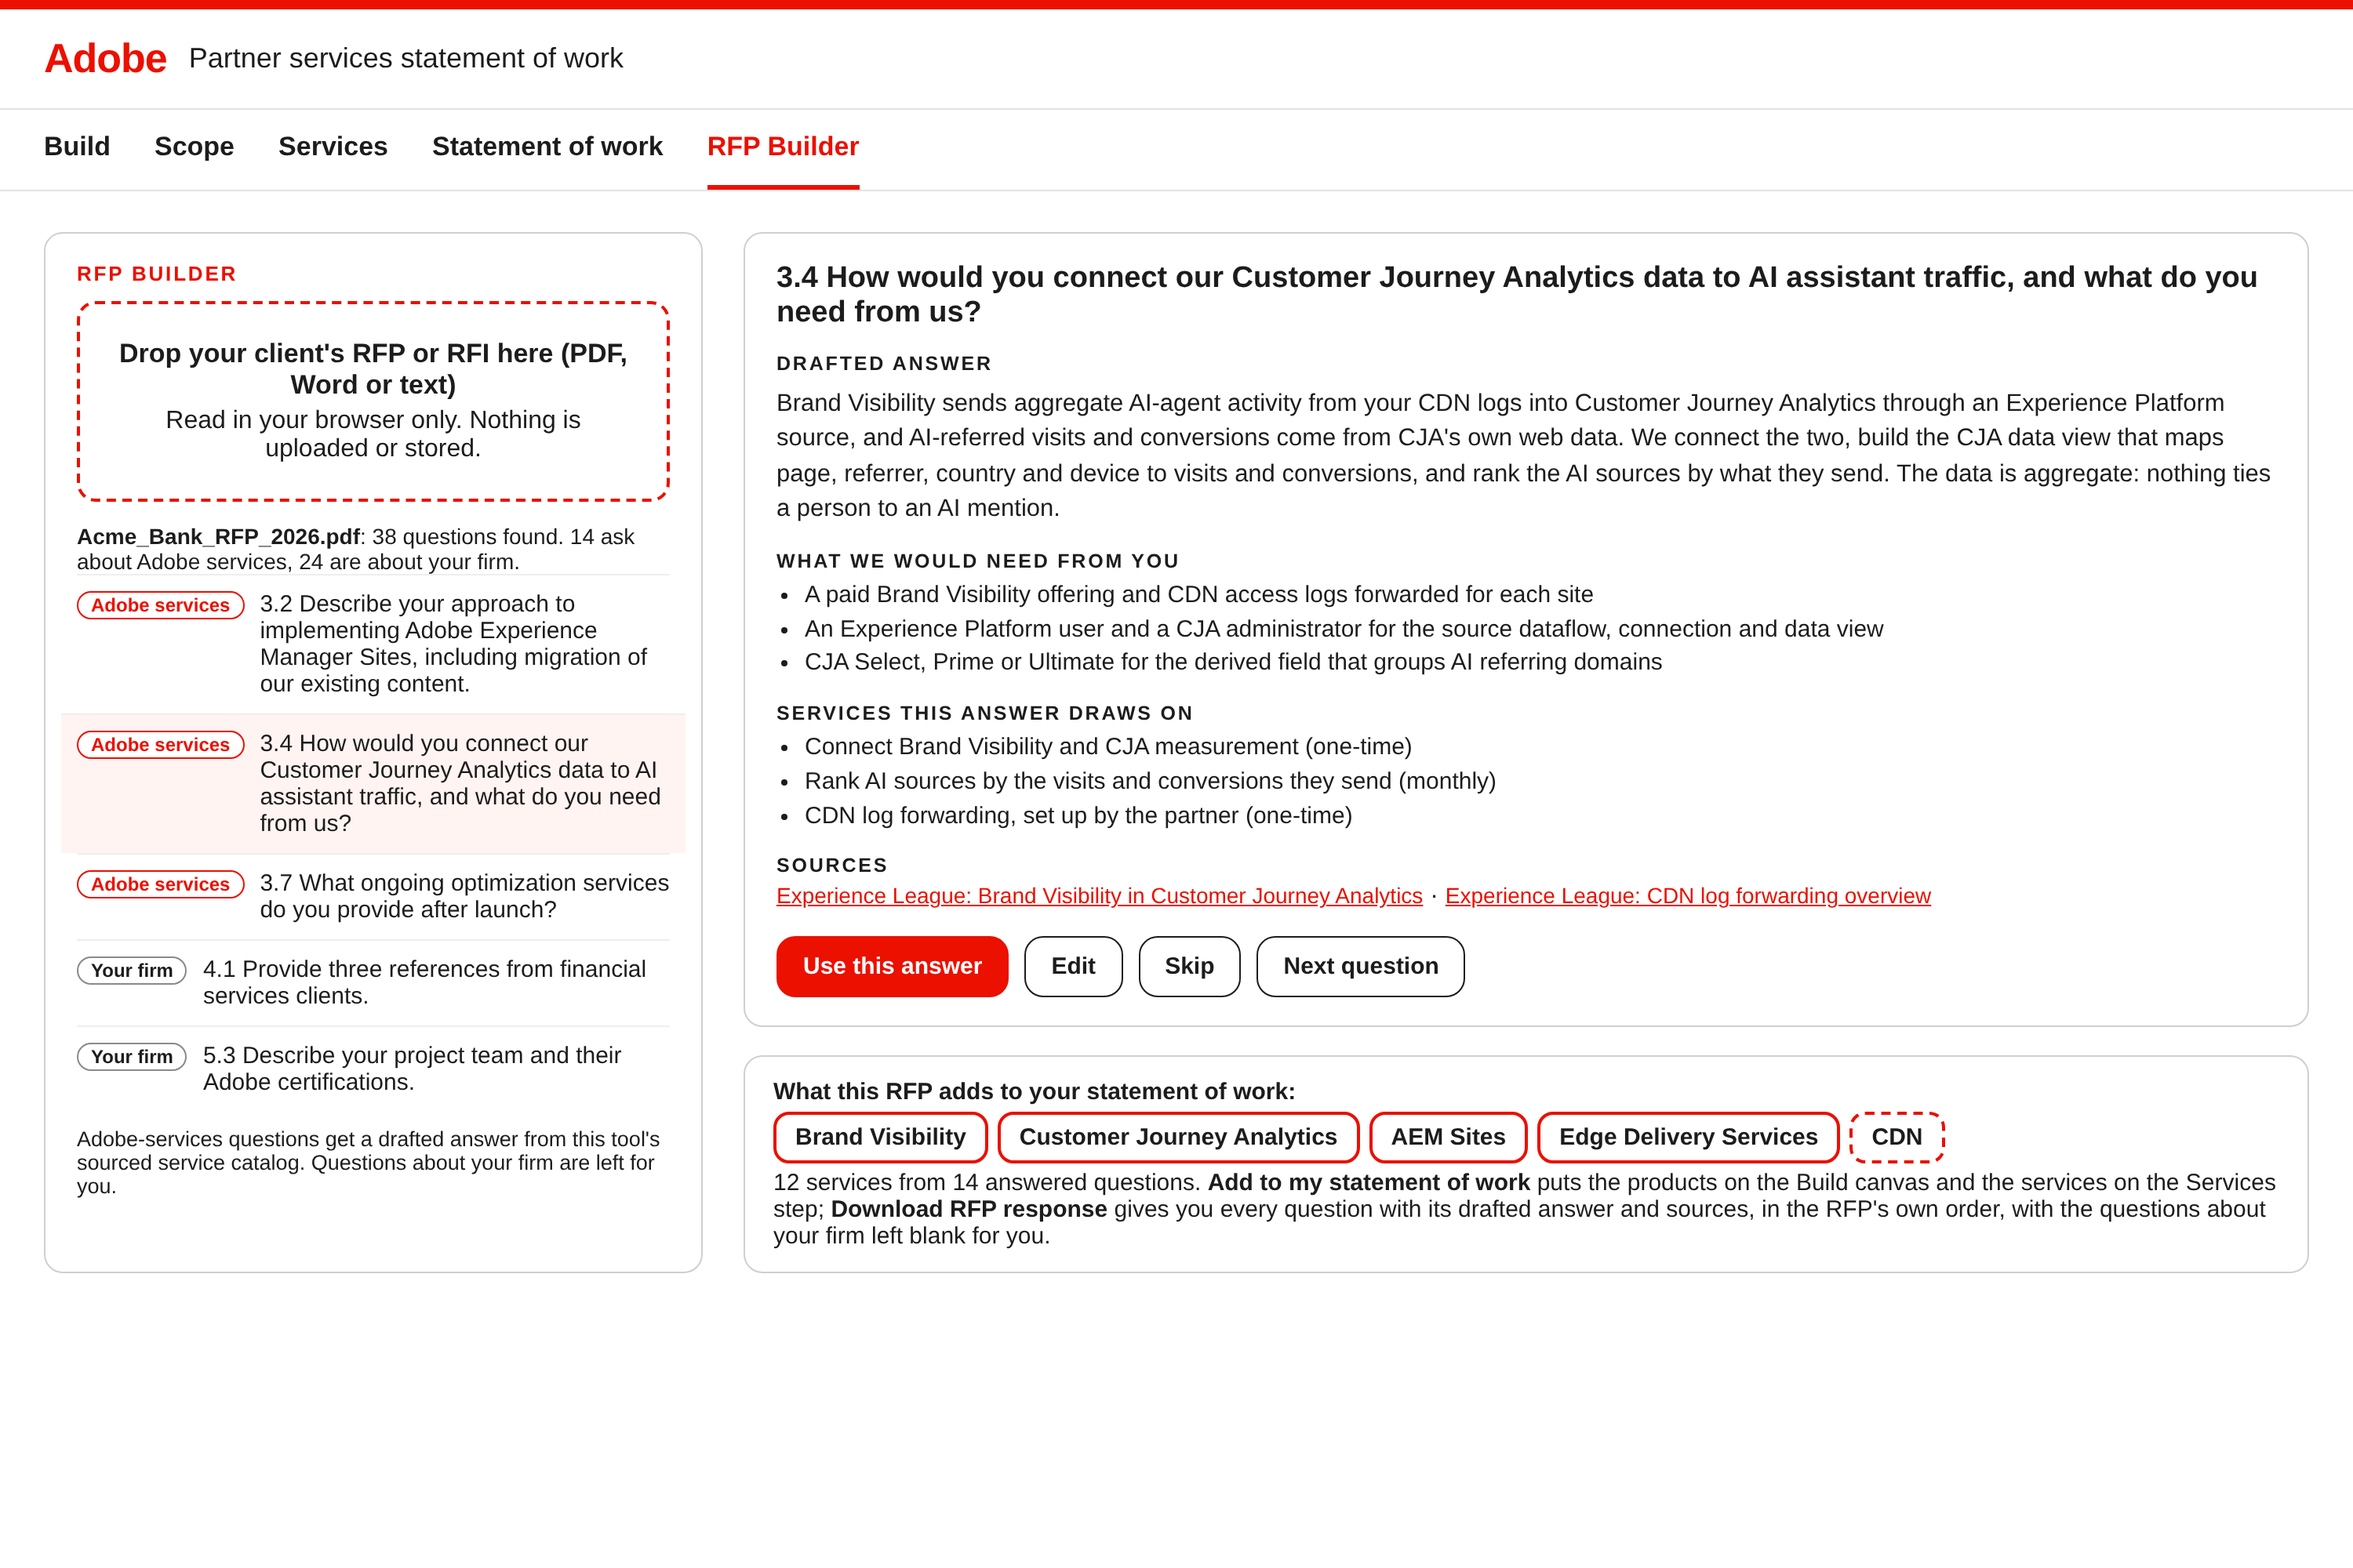
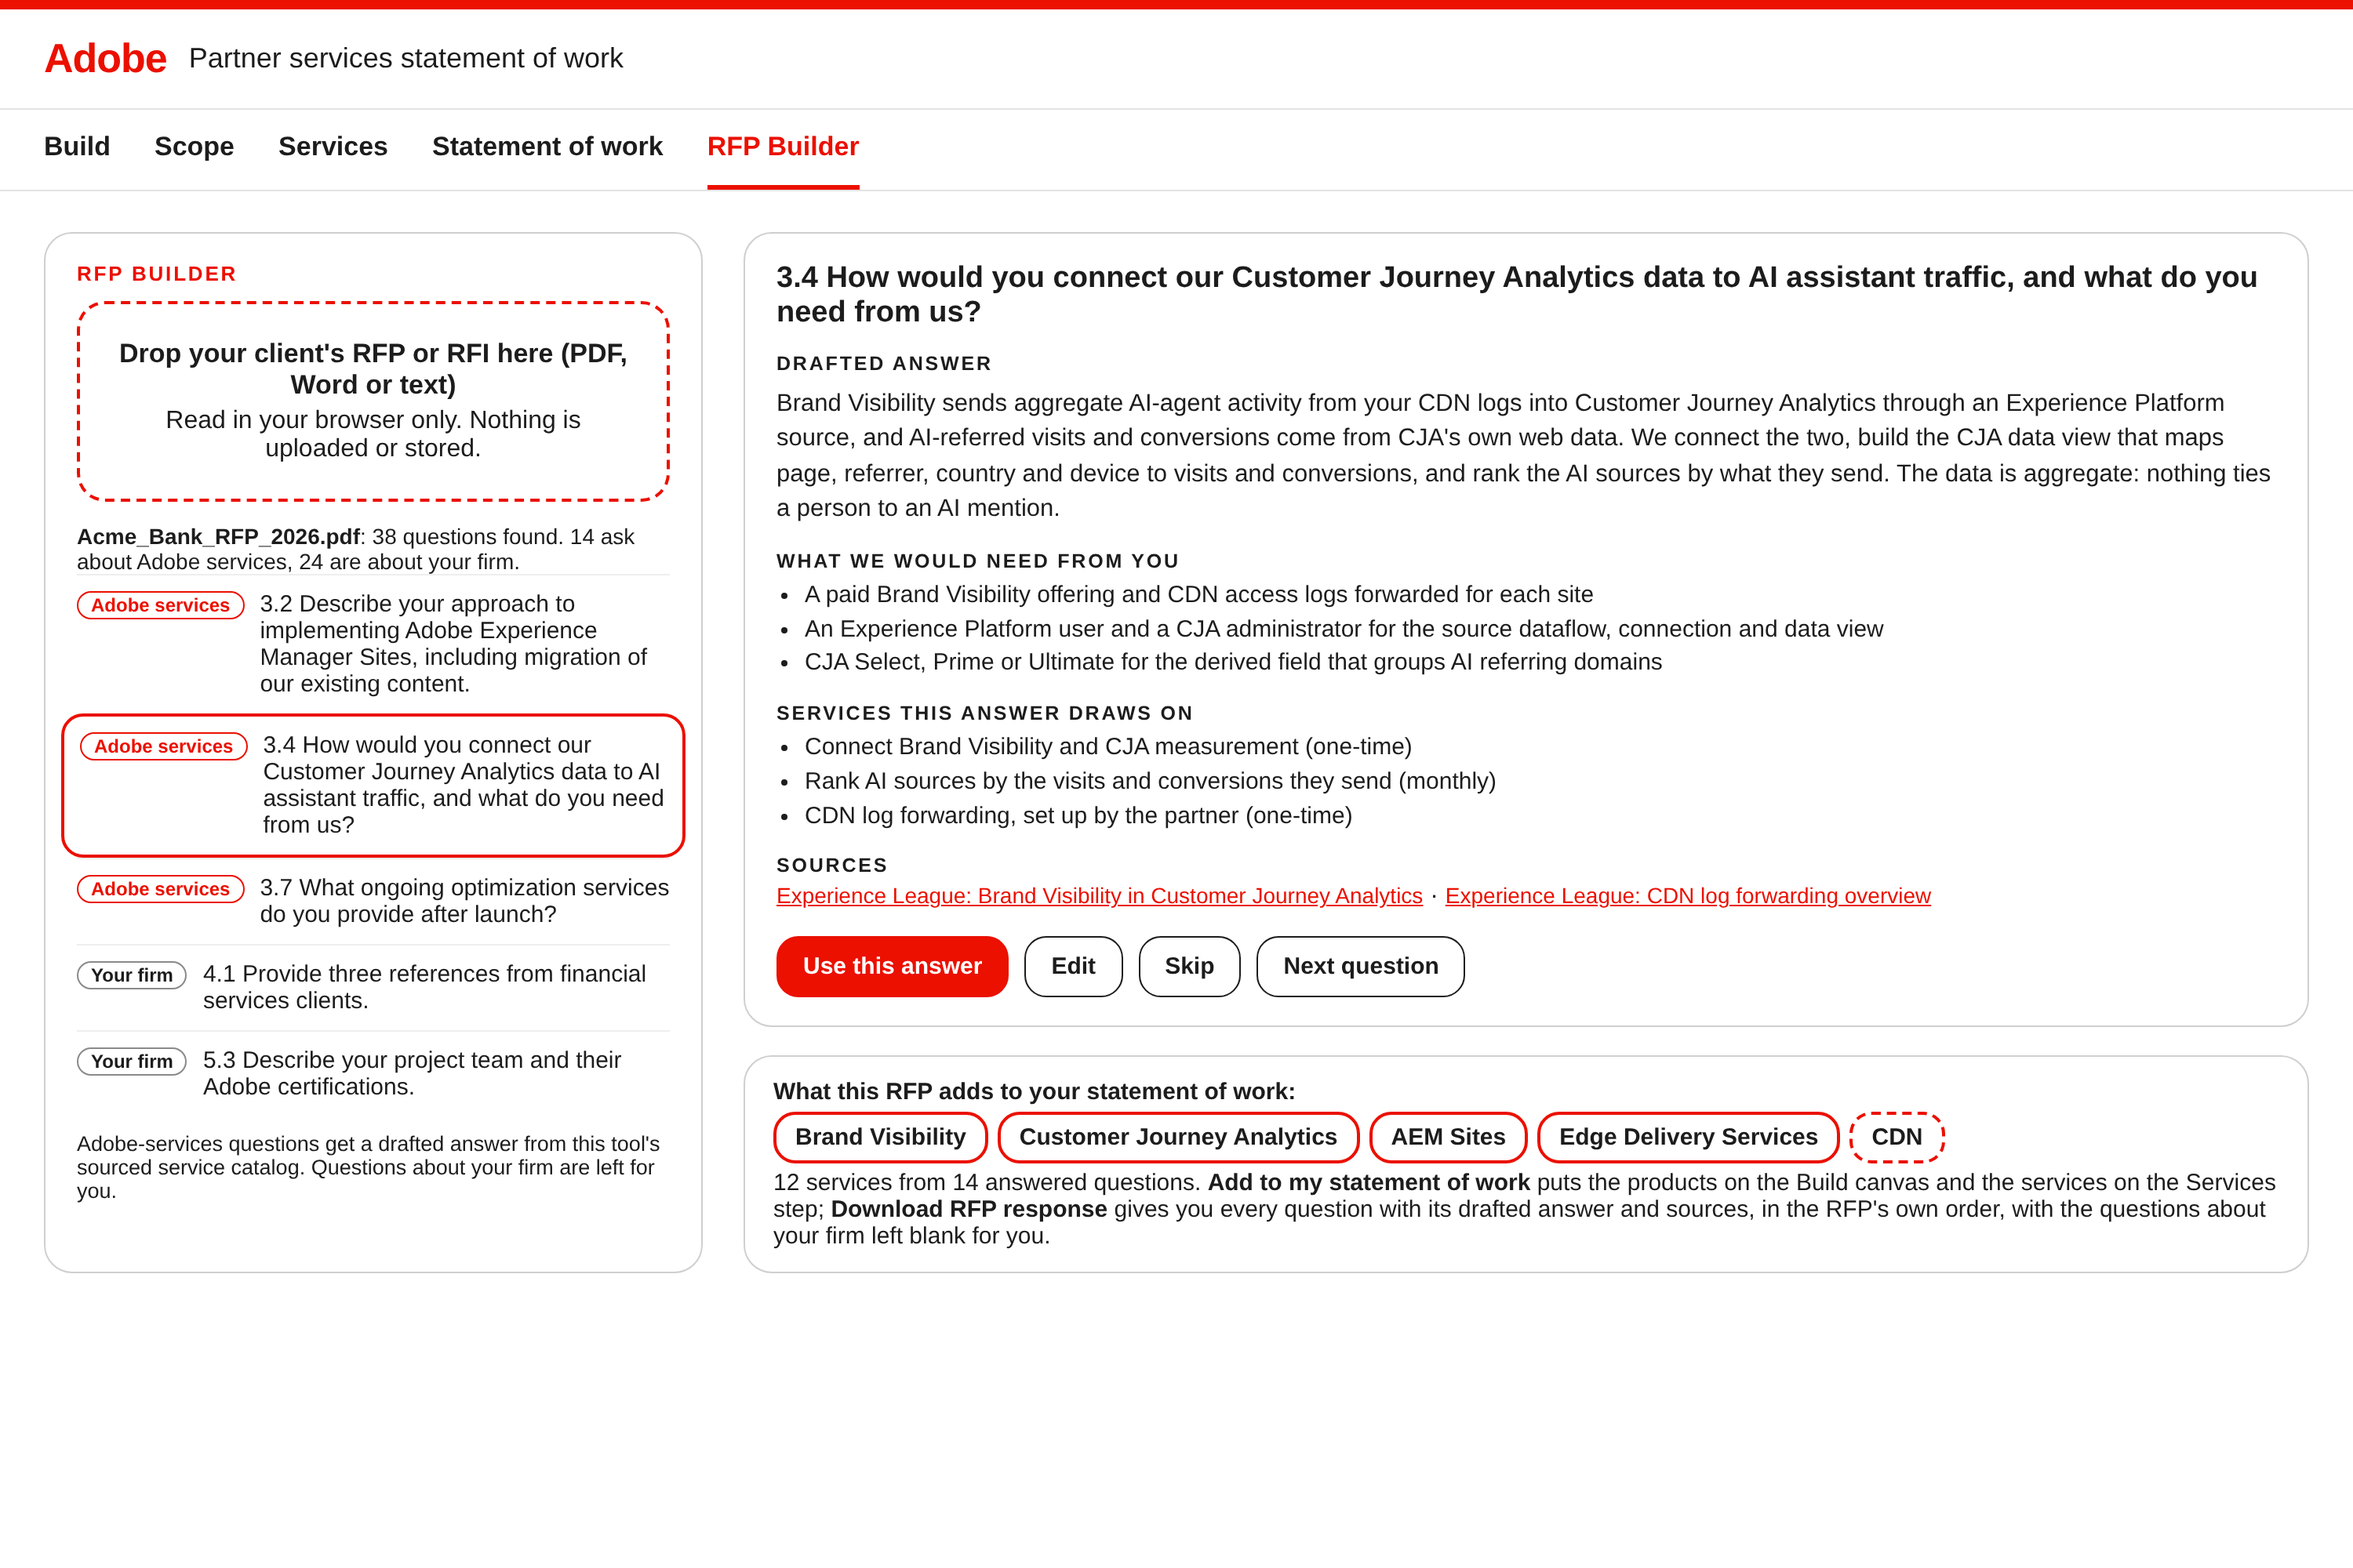
RFP Builder mockup: rounder corners, no shading (Adam) [skip netlify]
Claude-Session: https://claude.ai/code/session_01XdtaJbBr4NnCHXCCGFuhey

diff --git a/mockups/nov8_rfp/rfp_mock.html b/mockups/nov8_rfp/rfp_mock.html
@@ -7,28 +7,28 @@ body{margin:0;font-family:"Source Sans 3",Arial,sans-serif;color:#1c1c1c;backgro
 .tabs{display:flex;gap:28px;padding:0 28px;border-bottom:1px solid #e3e3e3;font-size:17px;font-weight:600}
 .tabs div{padding:14px 0}.tabs .on{color:#EB1000;border-bottom:3px solid #EB1000}
 .wrap{display:grid;grid-template-columns:420px 1fr;gap:26px;padding:26px 28px}
-.box{border:1.5px solid #cfcfcf;border-radius:12px;padding:18px 20px}
+.box{border:1.5px solid #cfcfcf;border-radius:18px;padding:18px 20px}
 h2{font-size:13px;letter-spacing:1.4px;text-transform:uppercase;color:#EB1000;margin:0 0 10px}
-.drop{border:2px dashed #EB1000;border-radius:12px;padding:22px;text-align:center;font-size:16px;margin-bottom:14px}
+.drop{border:2px dashed #EB1000;border-radius:18px;padding:22px;text-align:center;font-size:16px;margin-bottom:14px}
 .drop b{display:block;font-size:17px;margin-bottom:4px}
 .small{font-size:14px;color:#1c1c1c}
 .q{padding:10px 0;border-top:1px solid #eee;font-size:15px;display:flex;gap:10px;align-items:flex-start}
 .q:first-of-type{border-top:0}
 .tag{font-size:12px;font-weight:700;border:1.5px solid #EB1000;color:#EB1000;border-radius:999px;padding:1px 8px;white-space:nowrap;background:#fff}
 .tag.gray{border-color:#8a8a8a;color:#1c1c1c}
-.q.sel{background:#fff4f2;margin:0 -10px;padding:10px}
+.q.sel{border:2px solid #EB1000;border-radius:14px;margin:0 -10px;padding:10px}
 .ans h3{margin:0 0 6px;font-size:19px}
 .ans p{font-size:15.5px;line-height:1.45;margin:8px 0}
 .ans .lbl{font-size:12.5px;font-weight:700;letter-spacing:1.4px;text-transform:uppercase;margin:14px 0 4px}
 .ans ul{margin:4px 0 0 18px;padding:0;font-size:15px;line-height:1.45}
 .src a{color:#EB1000;font-size:14px}
 .btns{display:flex;gap:10px;margin-top:16px}
-.btn{border:1.5px solid #1c1c1c;border-radius:12px;padding:10px 16px;font-weight:600;font-size:15px;background:#fff}
+.btn{border:1.5px solid #1c1c1c;border-radius:14px;padding:10px 16px;font-weight:600;font-size:15px;background:#fff}
 .btn.red{background:#EB1000;color:#fff;border-color:#EB1000}
 .note{font-size:13.5px;margin-top:10px}
 .right{display:flex;flex-direction:column;gap:18px}
-.canvasmini{border:1.5px solid #cfcfcf;border-radius:12px;padding:14px 18px;font-size:15px}
-.chip{display:inline-block;border:2px solid #EB1000;border-radius:10px;padding:6px 12px;margin:4px 6px 4px 0;font-weight:600}
+.canvasmini{border:1.5px solid #cfcfcf;border-radius:18px;padding:14px 18px;font-size:15px}
+.chip{display:inline-block;border:2px solid #EB1000;border-radius:14px;padding:6px 12px;margin:4px 6px 4px 0;font-weight:600}
 </style></head><body>
 <div class="stripe"></div>
 <div class="mast"><b>Adobe</b><span>Partner services statement of work</span></div>
